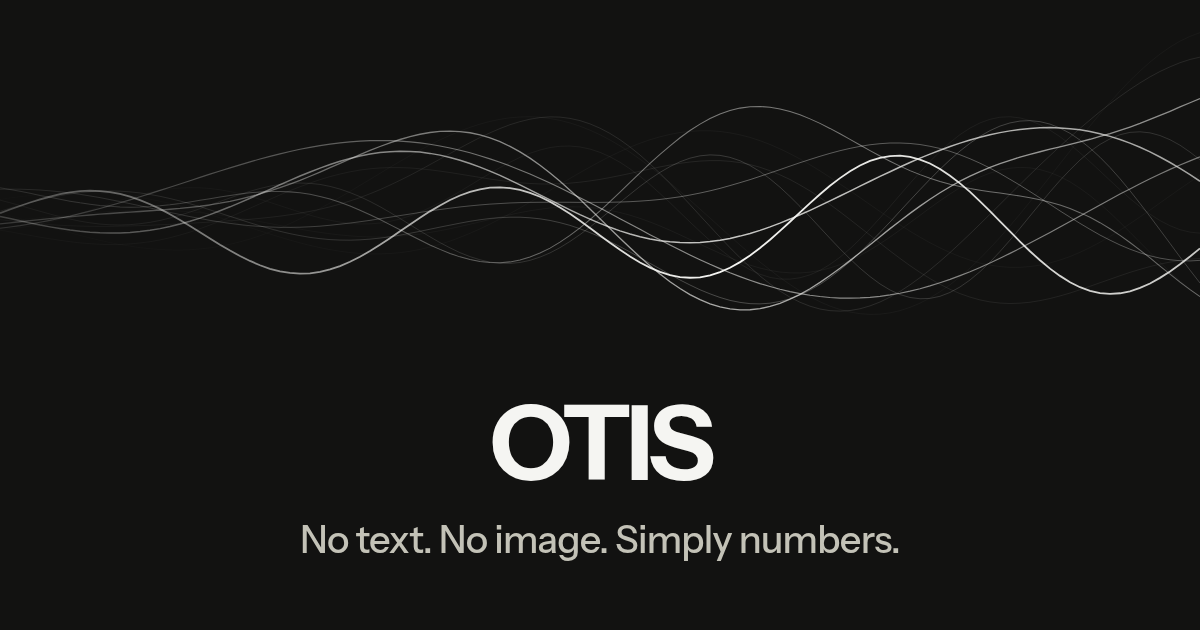
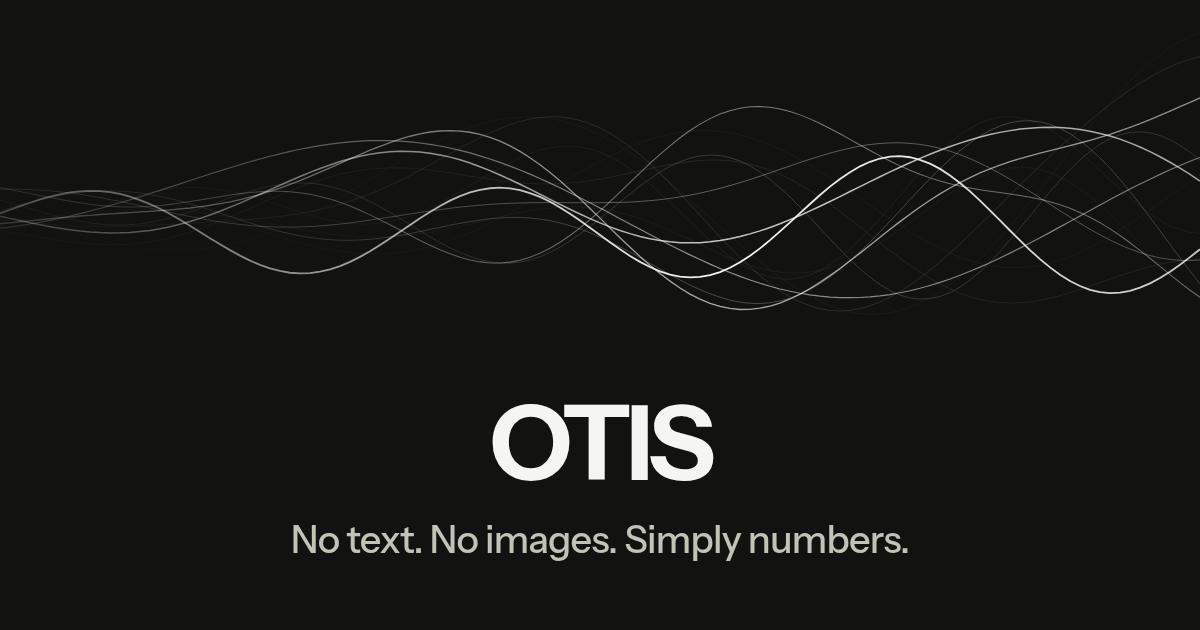
Update: the tagline reads "No images", plural
In the hero kicker, the intro animation, the og:image alt text and the
regenerated link-preview card. og:image gets ?v=2 so the platforms fetch
the new card instead of their cached copy; app.js bumped to v=230.

Claude-Session: https://claude.ai/code/session_01XJyizYA86BuDWcYbZ2xr46

diff --git a/docs/index.html b/docs/index.html
@@ -12,10 +12,10 @@
 <meta property="og:url" content="https://oetu.github.io/otis/">
 <meta property="og:title" content="OTIS - Open time series encoder">
 <meta property="og:description" content="An open, general-purpose time series model: 7 million parameters in 7 megabytes, run locally on your CPU in your browser, with nothing leaving it.">
-<meta property="og:image" content="https://oetu.github.io/otis/og.png">
+<meta property="og:image" content="https://oetu.github.io/otis/og.png?v=2">
 <meta property="og:image:width" content="1200">
 <meta property="og:image:height" content="630">
-<meta property="og:image:alt" content="A fan of thin drifting waveforms over the OTIS wordmark and the line: No text. No image. Simply numbers.">
+<meta property="og:image:alt" content="A fan of thin drifting waveforms over the OTIS wordmark and the line: No text. No images. Simply numbers.">
 <meta name="twitter:card" content="summary_large_image">
 <script>(function () { var t = null; try { t = sessionStorage.getItem('theme'); } catch (e) {} if (t !== 'dark' && t !== 'light') { var h = new Date().getHours(); t = (h >= 19 || h < 7) ? 'dark' : 'light'; } document.documentElement.dataset.theme = t; })();</script>
 <script>(function () { var q = location.search; if (/[?&]intro\b/.test(q)) { document.documentElement.dataset.intro = 'on'; return; } if (/[?&](nointro|selftest|sync)\b/.test(q)) return; var seen = null; try { seen = localStorage.getItem('otis-intro'); } catch (e) {} if (seen) return; if (window.matchMedia && matchMedia('(prefers-reduced-motion: reduce)').matches) return; document.documentElement.dataset.intro = 'on'; })();</script>   <!-- the intro plays on the first visit only (localStorage), never with reduced motion or ?nointro; ?intro replays it -->   <!-- the theme before the first paint: dark from 19:00 to 07:00 local time, unless the button was used this visit -->
@@ -91,7 +91,7 @@
       <linearGradient id="wave-fade" x1="0" x2="1" y1="0" y2="0"><stop offset="0" style="stop-color:var(--text-muted)" stop-opacity=".1"/><stop offset=".5" style="stop-color:var(--text-muted)" stop-opacity=".7"/><stop offset="1" style="stop-color:var(--text-muted)" stop-opacity=".3"/></linearGradient>
       <linearGradient id="wave-fade-bold" x1="0" x2="1" y1="0" y2="0"><stop offset="0" style="stop-color:var(--text-primary)" stop-opacity=".25"/><stop offset=".6" style="stop-color:var(--text-primary)" stop-opacity="1"/><stop offset="1" style="stop-color:var(--text-primary)" stop-opacity=".8"/></linearGradient>
     </defs></svg></div>
-    <p class="hero-kicker"><span class="kicker-brand">OTIS</span><span class="kicker-tag">No text. No image. Simply numbers.</span></p>
+    <p class="hero-kicker"><span class="kicker-brand">OTIS</span><span class="kicker-tag">No text. No images. Simply numbers.</span></p>
     <p class="hero-links"><a class="btn ghost" href="https://arxiv.org/abs/2410.07299" target="_blank" rel="noopener">Documentation<svg class="arrow" viewBox="0 0 24 24" aria-hidden="true"><path d="M7 7h10v10M7 17 17 7"/></svg></a><a class="btn ghost" href="https://github.com/oetu/otis" target="_blank" rel="noopener">GitHub<svg class="arrow" viewBox="0 0 24 24" aria-hidden="true"><path d="M7 7h10v10M7 17 17 7"/></svg></a></p>
     </div>
     <a class="scroll-cue" href="#explore" aria-label="Scroll down to Explore">Scroll<svg viewBox="0 0 24 24" aria-hidden="true"><path d="M6 9l6 6 6-6"/></svg></a>
@@ -286,6 +286,6 @@
 <script src="moment.js?v=106"></script>
 <script src="zeroshot.js?v=123"></script>
 <script src="analytics.js?v=2"></script>   <!-- visit counting, self-hosted; off on the local preview and during the self-test -->
-<script src="app.js?v=229"></script>
+<script src="app.js?v=230"></script>
 </body>
 </html>

diff --git a/docs/app.js b/docs/app.js
@@ -1504,7 +1504,7 @@
     box.addEventListener('click', finish);
     try { await document.fonts.ready; } catch (e) {}
     await sleep(400);
-    for (const t of ['No text.', 'No image.', 'Simply numbers.']) {
+    for (const t of ['No text.', 'No images.', 'Simply numbers.']) {
       if (over) return;
       line.textContent = t; line.classList.remove('hide'); void line.offsetWidth; line.classList.add('show');
       await sleep(900);
